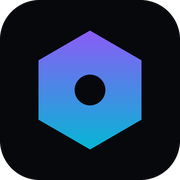
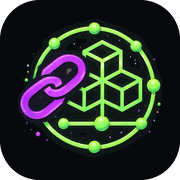
fix(brand): restore the Loggie orb, keep the delivery fixes
Reverses a mark change I made without asking. The previous commit replaced
the orb with a hexagon I drew, on the grounds that it read better at 16px.
Reviewing the actual rasters side by side, most of that reasoning does not
survive:

  * "sits on a light ground" — wrong. It is properly transparent; the white
    was an image viewer's backdrop.
  * "invisible against a light tab strip" — overstated. Weaker, not
    invisible.
  * "too detailed to resolve" — true at 16px, false at 32 and 48, where the
    chain link, cube cluster and node ring all read clearly.

What did hold up were delivery defects, and every one of them is fixed here
without touching the artwork:

  * one 543px, 424 KB PNG served for every slot
  * no 32/48/180 rasters at all
  * thin pale linework with no ground, weak on light chrome

The orb now sits on a dark rounded tile, which gives it a definite
silhouette on both light and dark chrome, at 0.8/2.4/4.6/7.5 KB across
16/32/48/180 plus a 512 master. At 16px a mark with this much structure
resolves to a coloured disc; that is a property of the slot, not a fault in
the artwork, and the hexagon only beat it there by carrying no information.

The share card carries the orb too, so the favicon, the card and
app.loggielabs.com are once again the same brand. The card keeps its 1200x630
size, its current headline and the status disclosure.

Source restored to brand/loggie-orb-source.png, out of public/ so it is not
[…]

diff --git a/scripts/generate-brand-assets.py b/scripts/generate-brand-assets.py
@@ -9,10 +9,17 @@ this replaced still read "Independent cryptographic proof for records,
 decisions, and evidence" — the pilot-era positioning — long after the site
 stopped saying it. Every shared link was selling the old company.
 
-Everything below derives from the site's real tokens (tailwind.config.js) and
-its real visual signature, the hexagonal lattice in shared/AbstractBackground.tsx
-whose verification pulse propagates through the hero. Nothing here invents a
-brand colour and nothing states a claim the page does not.
+THE MARK IS NOT REDRAWN HERE. It is the Loggie orb, the same one
+app.loggielabs.com carries, and it stays exactly as supplied — an earlier pass
+swapped it for a generic hexagon, which was a brand decision dressed up as a
+technical fix and split this site from the flagship product. Everything this
+script does to it is delivery: correct rasters, a dark ground for contrast,
+and sane file sizes.
+
+The rest derives from the site's real tokens (tailwind.config.js) and its real
+background motif, the hexagonal lattice in shared/AbstractBackground.tsx whose
+verification pulse propagates through the hero. Nothing here invents a brand
+colour and nothing states a claim the page does not.
 
 Run:  python3 scripts/generate-brand-assets.py
 """
@@ -86,43 +93,49 @@ def hexagon(cx: float, cy: float, r: float, rotate: float = 0.0):
 
 # ── Favicon ──────────────────────────────────────────────────────────────────
 #
-# The icon this replaces was 543x543 and 424 KB — for a 16-pixel slot — drawn as
-# a chain link over an isometric cube inside a network ring, on a transparent
-# light ground. Three separate problems: it was invisible against a light tab
-# strip, it was far too detailed to resolve at 16px, and its acid-green palette
-# appears nowhere in this site's tokens.
+# The mark is the Loggie orb — the same one app.loggielabs.com uses — and it is
+# NOT redrawn here. An earlier pass replaced it with a generic hexagon; that was
+# a brand decision dressed up as a technical fix, and it split the marketing
+# site from the flagship product.
 #
-# What replaces it is one hexagon: the site's own lattice motif reduced to a
-# single node. It carries a dark rounded-square ground so it holds contrast on
-# both light and dark tab strips, and it survives being shrunk to 16px because
-# there is only one shape to read.
+# The real defects were all in delivery, and all of them are fixed without
+# touching the artwork:
+#   * one 543px, 424 KB PNG served for every slot, downscaled by the browser
+#   * no 32/48/180 rasters at all
+#   * thin pale-green linework with no ground, so it sits weakly on a light
+#     tab strip
+#
+# A dark rounded tile gives it a definite silhouette on light and dark chrome
+# alike. At 16px a mark this detailed resolves to a coloured disc — that is a
+# property of the slot, not a fault in the artwork, and no icon with this much
+# structure survives it. At 32 and 48 the chain link, cube cluster and node
+# ring all read.
 
-def build_icon(size: int) -> Image.Image:
-    ss = 8  # supersample, then downsample — keeps the edges clean at 16px
+MARK_SRC = ROOT / "brand" / "loggie-orb-source.png"
+
+
+def load_mark() -> Image.Image:
+    im = Image.open(MARK_SRC).convert("RGBA")
+    return im.crop(im.getbbox())  # trim the transparent margin
+
+
+def build_icon(size: int, mark: Image.Image) -> Image.Image:
+    ss = 6  # supersample so the tile corners and the linework stay clean
     s = size * ss
-    img = Image.new("RGB", (s, s), VOID)
-    draw = ImageDraw.Draw(img)
+    img = Image.new("RGBA", (s, s), (0, 0, 0, 0))
 
-    # Rounded-square ground.
-    mask = Image.new("L", (s, s), 0)
-    ImageDraw.Draw(mask).rounded_rectangle([0, 0, s - 1, s - 1], radius=int(s * 0.22), fill=255)
-
-    # The hexagon, filled with the brand gradient.
-    hex_r = s * 0.33
-    hex_mask = Image.new("L", (s, s), 0)
-    ImageDraw.Draw(hex_mask).polygon(hexagon(s / 2, s / 2, hex_r, rotate=30), fill=255)
-    paste_gradient(img, hex_mask, (int(s / 2 - hex_r), int(s / 2 - hex_r),
-                                   int(s / 2 + hex_r), int(s / 2 + hex_r)))
-
-    # The verification node at its centre — the one detail small enough to keep.
-    node_r = s * 0.085
-    draw.ellipse(
-        [s / 2 - node_r, s / 2 - node_r, s / 2 + node_r, s / 2 + node_r],
-        fill=VOID,
+    tile = Image.new("RGBA", (s, s), VOID + (255,))
+    tile_mask = Image.new("L", (s, s), 0)
+    ImageDraw.Draw(tile_mask).rounded_rectangle(
+        [0, 0, s - 1, s - 1], radius=int(s * 0.22), fill=255
     )
+    img.paste(tile, (0, 0), tile_mask)
+
+    inset = int(s * 0.10)
+    img.alpha_composite(mark.resize((s - inset * 2, s - inset * 2), Image.LANCZOS), (inset, inset))
 
     out = Image.new("RGBA", (s, s), (0, 0, 0, 0))
-    out.paste(img, (0, 0), mask)
+    out.paste(img, (0, 0), tile_mask)
     return out.resize((size, size), Image.LANCZOS)
 
 
@@ -193,13 +206,13 @@ def build_share_card() -> Image.Image:
         fill=GRAY_300,
     )
 
-    # The hexagon mark, mirroring the favicon so the two read as one system.
-    cx, cy, r = 980, 300, 104
-    hex_mask = Image.new("L", (W, H), 0)
-    ImageDraw.Draw(hex_mask).polygon(hexagon(cx, cy, r, rotate=30), fill=255)
-    paste_gradient(img, hex_mask, (cx - r, cy - r, cx + r, cy + r))
+    # The orb, the same mark the favicon and the app carry.
+    mark = load_mark()
+    mh = 260
+    mw = round(mark.width * mh / mark.height)
+    scaled = mark.resize((mw, mh), Image.LANCZOS)
+    img.paste(scaled, (980 - mw // 2, 300 - mh // 2), scaled)
     draw = ImageDraw.Draw(img, "RGBA")
-    draw.ellipse([cx - 26, cy - 26, cx + 26, cy + 26], fill=VOID)
 
     # The same disclosure the hero carries. Never ship this card without it.
     m_font = font(FONT_MONO, 19)
@@ -232,10 +245,14 @@ def build_wordmark() -> Image.Image | None:
 def main() -> None:
     PUBLIC.mkdir(parents=True, exist_ok=True)
 
+    mark = load_mark()
     for size in (16, 32, 48, 180, 512):
         name = "apple-touch-icon.png" if size == 180 else f"favicon-{size}x{size}.png"
         path = PUBLIC / name
-        build_icon(size).save(path, optimize=True)
+        icon = build_icon(size, mark)
+        if size >= 180:
+            icon = icon.quantize(colors=128, method=Image.FASTOCTREE)
+        icon.save(path, optimize=True)
         print(f"  {name:<26} {size}x{size}  {path.stat().st_size / 1024:.1f} KB")
 
     card = PUBLIC / "loggie-share-card.png"
